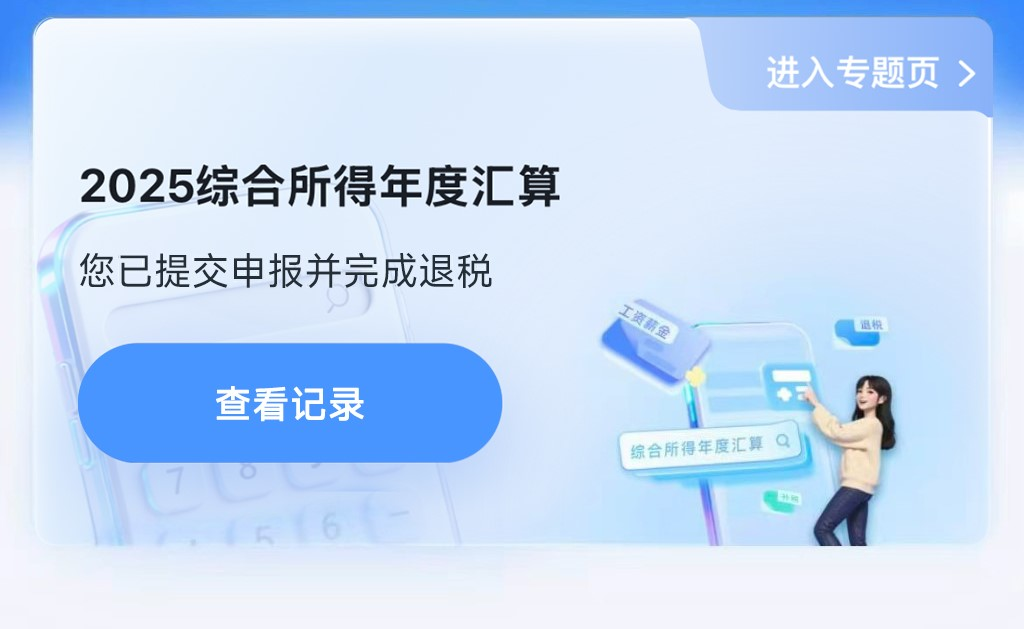
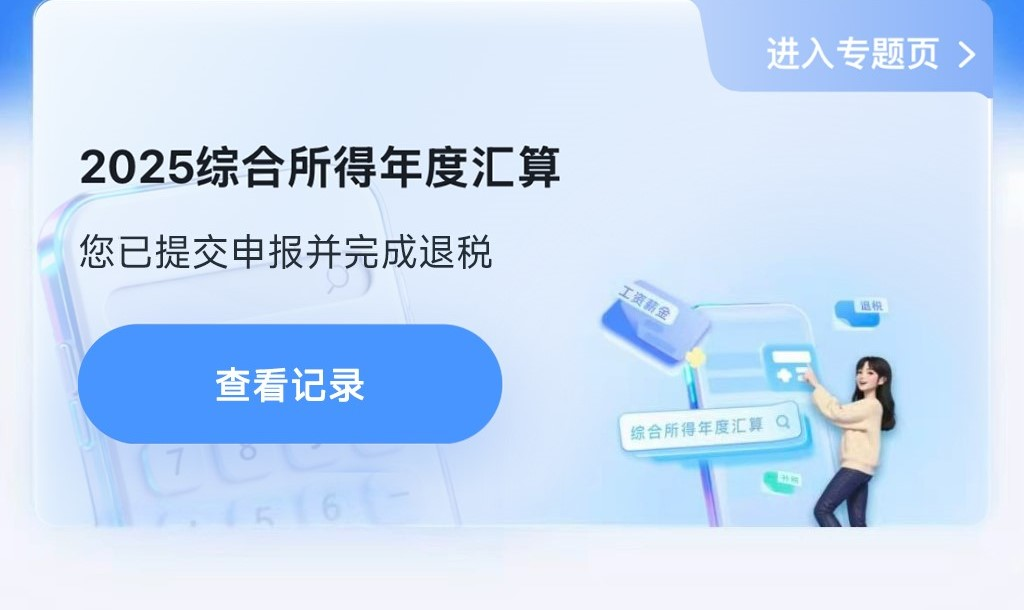
feat: 更新首页横幅图为 2025 汇算完成版
替换 sydb-v2.jpg/sydb.jpg，并 bump 首页缓存版本号。

diff --git a/frontend/shouye.html b/frontend/shouye.html
@@ -428,7 +428,7 @@
                 })();
                 </script>
                 <div class="shouye-banner-viewport" id="shouyeBannerViewport">
-                    <img id="assetShouyeBanner" src="sydb-v2.jpg?v=10" alt="首页">
+                    <img id="assetShouyeBanner" src="sydb-v2.jpg?v=11" alt="首页">
                     <a href="shenbao_jilu.html" class="sy-banner-record-hit" aria-label="查看记录"></a>
                     <a href="zonghe.html" class="sy-banner-zonghe-hit" aria-label="进入专题页"></a>
                 </div>
